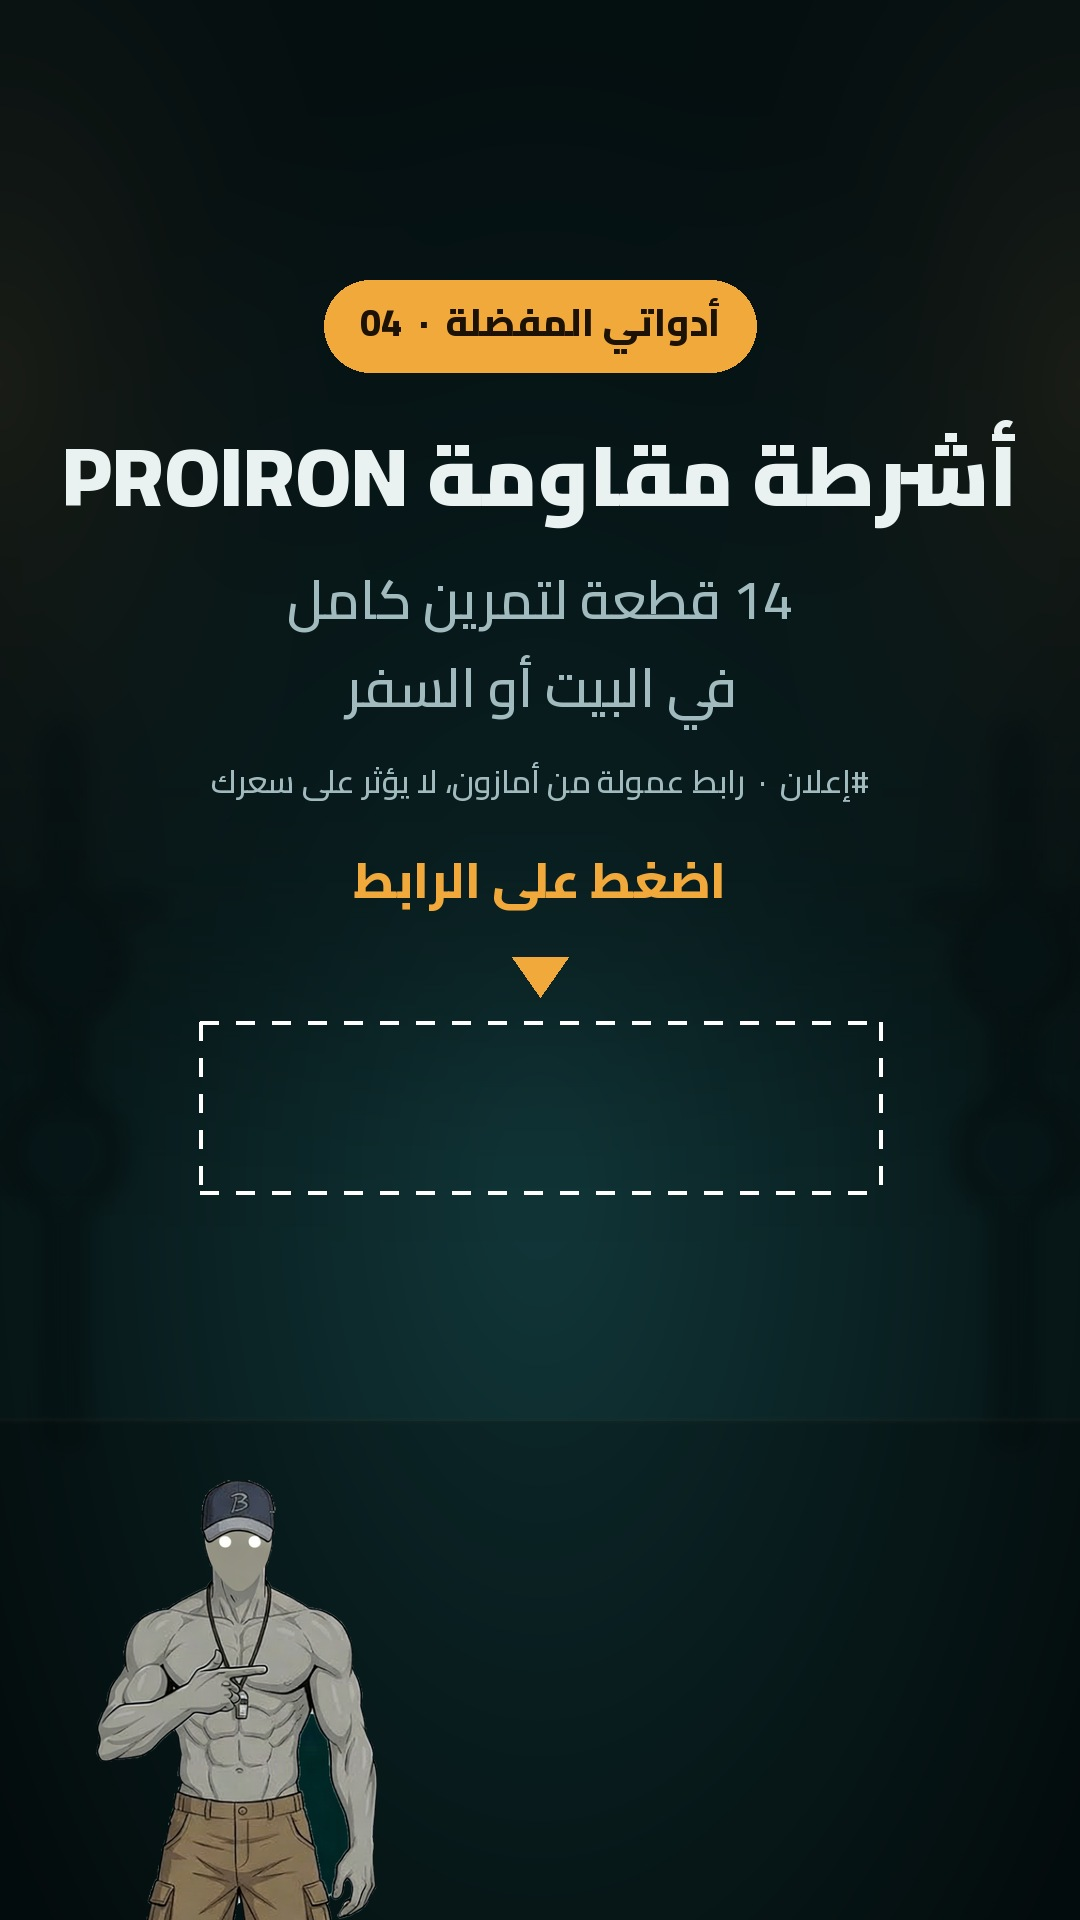
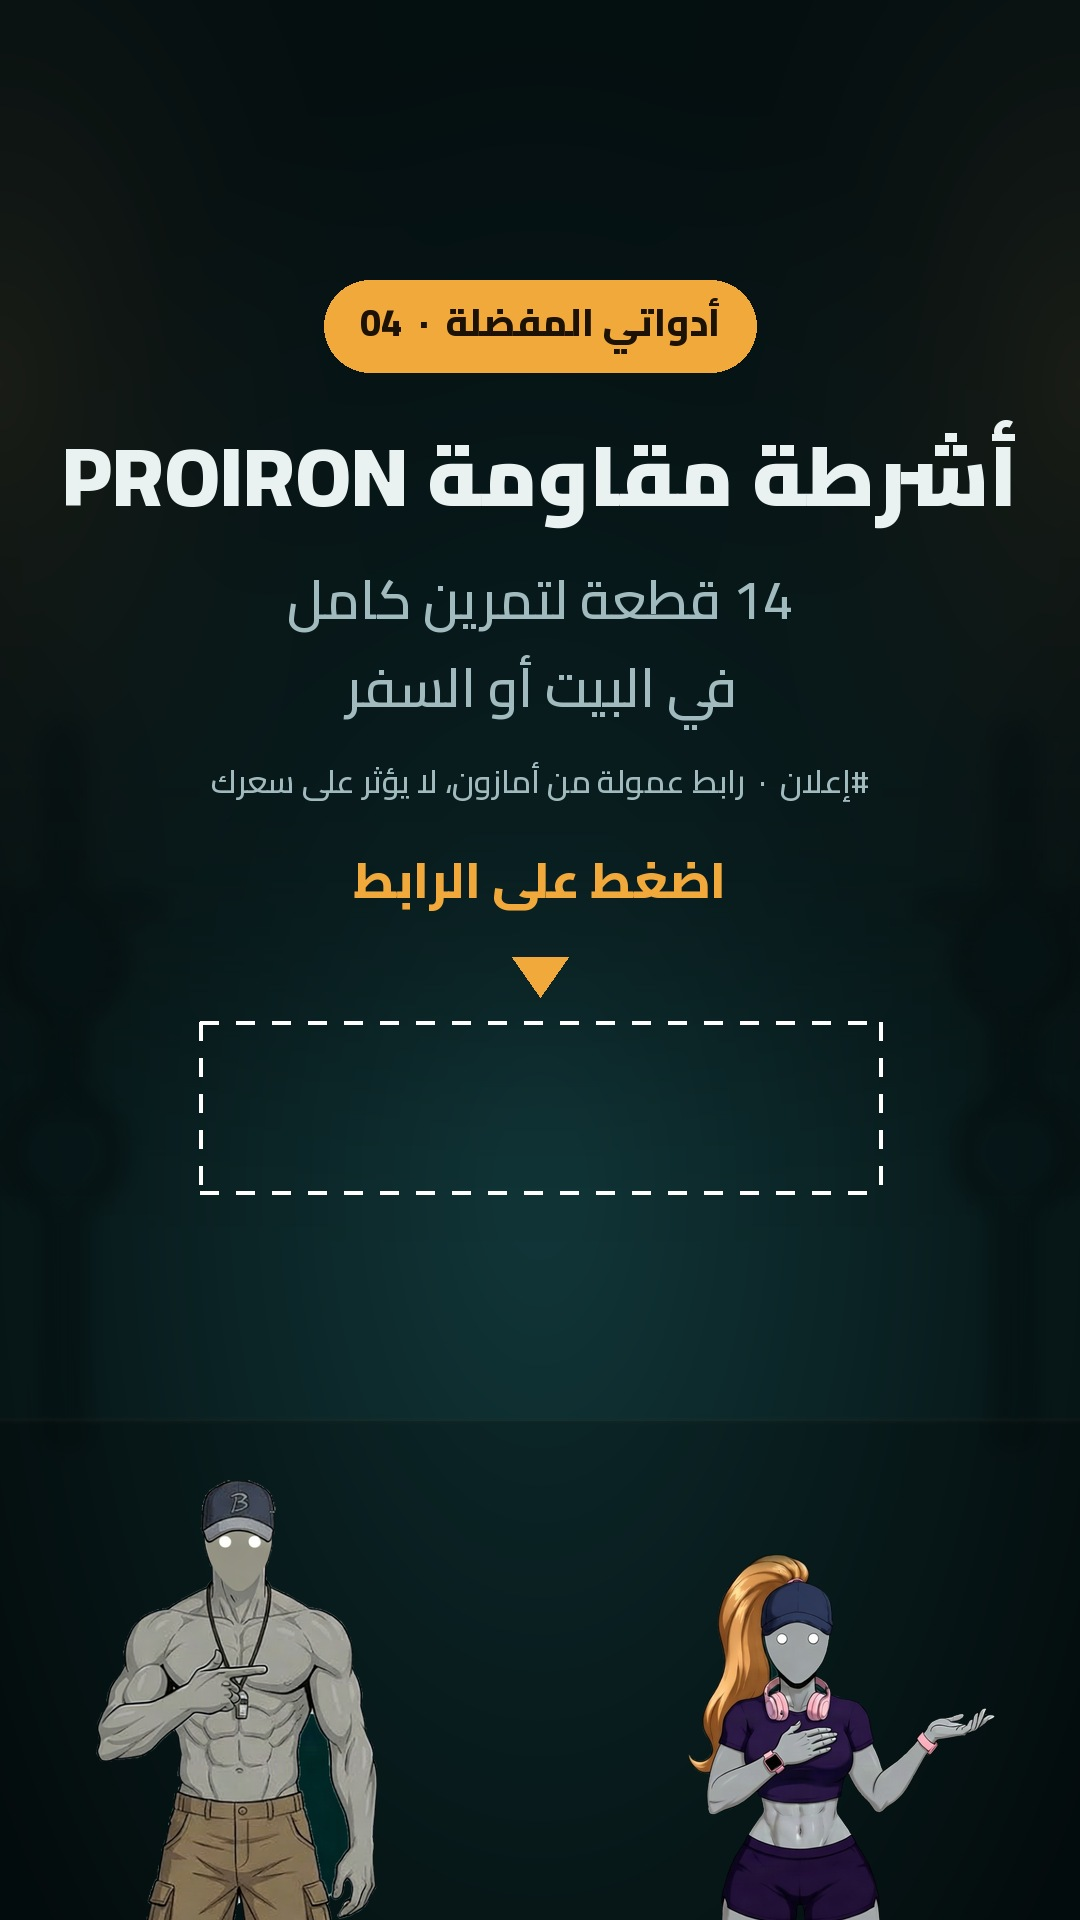
Gear stories: add Marah with skin matched to her reference
Claude-Session: https://claude.ai/code/session_01UQAcntGtU6pmWokpuYzuWe

Changed region(s): [[0.6417, 0.8125, 0.8556, 1.0], [0.8556, 0.875, 0.9167, 0.9062]]

diff --git a/scripts/make_gear_stories.py b/scripts/make_gear_stories.py
@@ -73,12 +73,36 @@ def footer(d, y: int = 1060) -> None:
     centred(d, y, "#إعلان  ·  رابط عمولة من أمازون، لا يؤثر على سعرك", font("SemiBold", 32), MUTED)
 
 
-def base(blanket: Image.Image, x: float) -> Image.Image:
+MARAH_SKIN = (161.0, 164.0, 165.0)  # median skin of assets/characters/marah/reference_front.png
+
+
+def match_skin(src: Path, dst: Path, target=MARAH_SKIN) -> Path:
+    """Pull the grey skin of a generated Marah image to her reference tone.
+
+    Skin is the low-saturation mid-grey; white socks, shoes and the eyes (brighter) and the dark
+    outfit are left alone. The gain is faded in with a soft mask so the edges do not band.
+    """
+    import numpy as np
+    a = np.asarray(Image.open(src).convert("RGB")).astype(np.float32)
+    mx, mn = a.max(2), a.min(2)
+    hard = (mx - mn < 18) & (mx > 120) & (mx < 215)
+    gain = np.array(target, np.float32) / np.median(a[hard], 0)
+    soft = np.asarray(Image.fromarray((hard * 255).astype(np.uint8)).filter(ImageFilter.GaussianBlur(2)),
+                      np.float32)[..., None] / 255
+    out = a * (1 - soft) + np.clip(a * gain, 0, 255) * soft
+    dst.parent.mkdir(parents=True, exist_ok=True)
+    Image.fromarray(out.round().astype(np.uint8)).save(dst, quality=95)
+    return dst
+
+
+def base(blanket: Image.Image, x: float, marah: Image.Image | None = None) -> Image.Image:
     canvas = background(W, H)
     shade = Image.new("RGBA", (W, H), (0, 0, 0, 0))
     ImageDraw.Draw(shade).rectangle([0, 0, W, 1000], fill=(4, 14, 16, 120))
     canvas.alpha_composite(shade.filter(ImageFilter.GaussianBlur(120)))
     place(canvas, blanket, x, 0.62, floor=1.16)
+    if marah is not None:  # r030 keeps Marah at 0.9 of Blanket's scale
+        place(canvas, marah, 1 - x, 0.56, floor=1.16)
     return canvas
 
 
@@ -90,9 +114,12 @@ def main() -> int:
     out = ROOT / args.out
     out.mkdir(parents=True, exist_ok=True)
     blanket = cutout(ROOT / args.blanket)
+    poses = ["m_welcome2", "m_hips1", "m_cap1", "m_chin1", "m_welcome2"]
+    marahs = {p: cutout(match_skin(ROOT / f"images/r030-solo/{p}.jpg", ROOT / f"images/gear-stories/{p}.jpg"))
+              for p in set(poses)}
 
     # opening story
-    c = base(blanket, 0.5)
+    c = base(blanket, 0.24, marahs[poses[0]])
     d = ImageDraw.Draw(c, "RGBA")
     pill(d, 300, "Blanket Fitness", font("ExtraBold", 40), (29, 18, 6), AMBER)
     centred(d, 430, "أدواتي المفضلة", font("Black", 120), FG)
@@ -103,7 +130,7 @@ def main() -> int:
     c.convert("RGB").save(out / "00-intro.jpg", quality=93)
 
     for i, (num, name, lines) in enumerate(TOOLS):
-        c = base(blanket, 0.78 if i % 2 == 0 else 0.22)
+        c = base(blanket, 0.78 if i % 2 == 0 else 0.22, marahs[poses[i + 1]])
         d = ImageDraw.Draw(c, "RGBA")
         pill(d, 280, f"أدواتي المفضلة  ·  {num}", font("ExtraBold", 38), (29, 18, 6), AMBER)
         y = centred(d, 420, name, font("Black", 96), FG)
